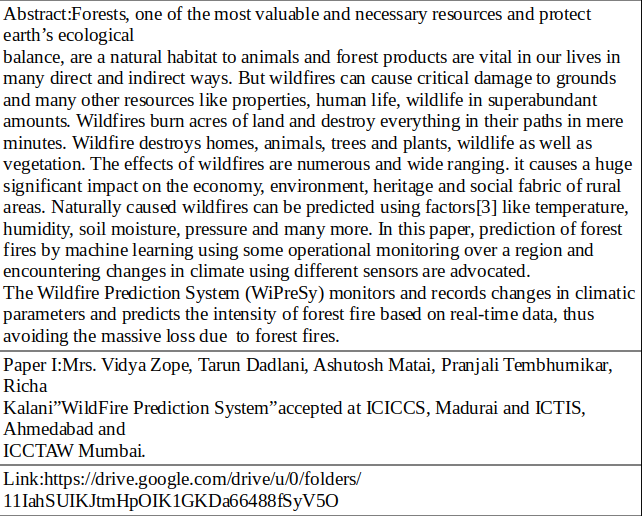
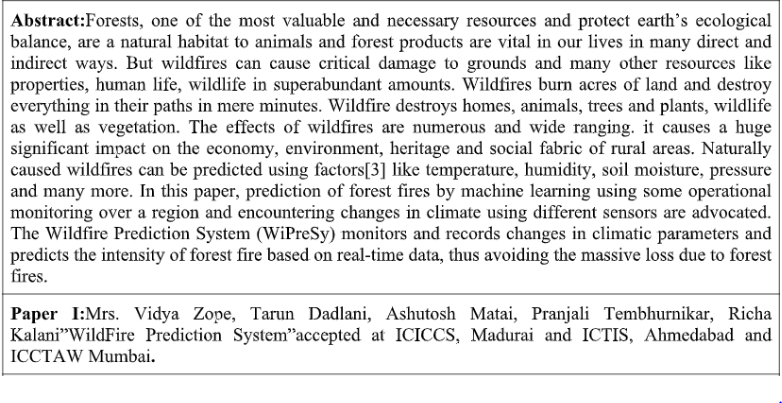
images changed of BE group removed spacing in the line and removed likes from image who's  linkes where changed in abstract

diff --git a/p4.html b/p4.html
@@ -121,7 +121,8 @@
               </div>
               <h2 class="w-title w">UDAN-An RCS Flight Booking Application </h2><br>
               <div style="margin-bottom: 10px !important">
-                <span><a href="https://drive.google.com/open?id=1KNEf-Vu4HpTUBzvKg3geVJX9bT1akrBj">Publication &nbsp; &nbsp;  &nbsp; &nbsp; &nbsp;</a></span>
+                <span><a href="https://drive.google.com/open?id=1KNEf-Vu4HpTUBzvKg3geVJX9bT1akrBj">Publication 1 &nbsp; &nbsp;  &nbsp; &nbsp; &nbsp;</a></span>
+                 <span><a href="https://irjet.net/archives/V7/i4/IRJET-V7I4100.pdf">Publication 2 &nbsp; &nbsp; </a></span>
                 <a href="img/img1/4.2.png" data-lightbox="gallery-mf">Abstract</a></div>
                 <p class="w">Group Members: Karan Khatwani, Rahul Khubchandani, Vanita Lahrani, Resham Verliani</p>
                 <p class="w">Mentor: Mrs. Mannat Doultani</p>

diff --git a/p2.html b/p2.html
@@ -121,7 +121,7 @@
             <h6><b>Project Name: Automated Shopping Using IoT, AI and Hippocampus based localization</b> </h6><br>
             <div style="margin-bottom: 10px !important"></div>
             <span><a href="https://docs.google.com/document/d/1YMahkTSZjRXBsh7avMOd5gUby5GJzM9OYSXc7gGbc/edit?usp=drivesdk ">Publication &nbsp; &nbsp; &nbsp;</a></span>
-            <a href="img/2.2.png data-lightbox="gallery-mf">Abstract</a>
+            <a href="img/2.2.png" data-lightbox="gallery-mf">Abstract</a>
             <div>
                 <p>Group Members: Mohit Makhija, Kajol Chawla, Preeti Artani </p>
                 <p>Mentor: Mr. Prashant Kanade </p>

diff --git a/p6.html b/p6.html
@@ -179,8 +179,7 @@
           <div class="max-height-st card-st">
 
             <div class="work-img">
-              <iframe width="100%" height="100%"
-                src="https://drive.google.com/open?id=1sHIrTAUVwkduEud0Rbd-ZEw_H2cN6ttH"></iframe>
+             <iframe src="https://drive.google.com/file/d/1Zt-MIgj9BsxRF65eCFvDRhOwVhx85gVY/preview" width="100%" height="100%"></iframe>
             </div>
             <h6><b>Project Name : Video Analysis and Natural Language Processing and Generation</b></h6>
             <div style="margin-bottom: 10px !important"></div>
